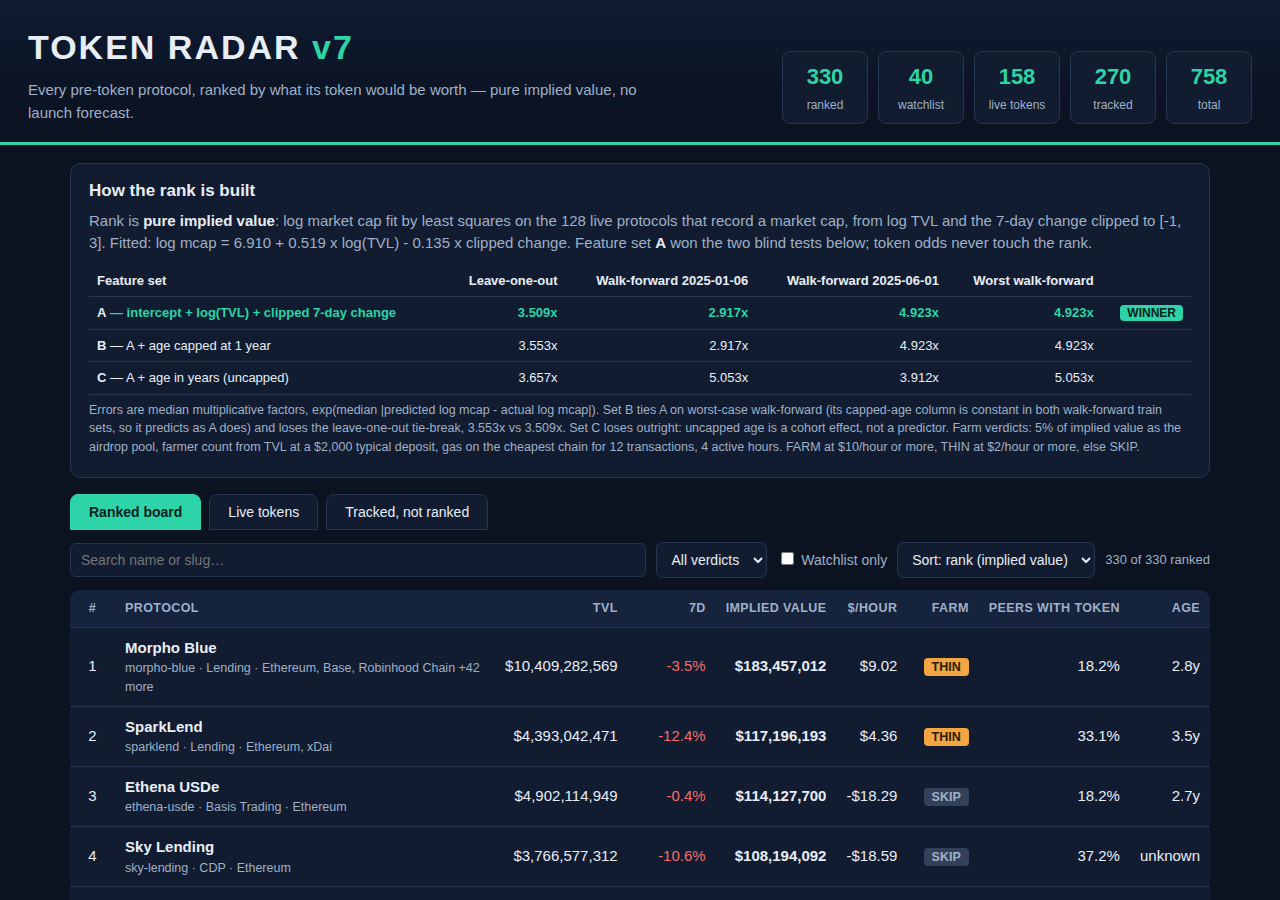
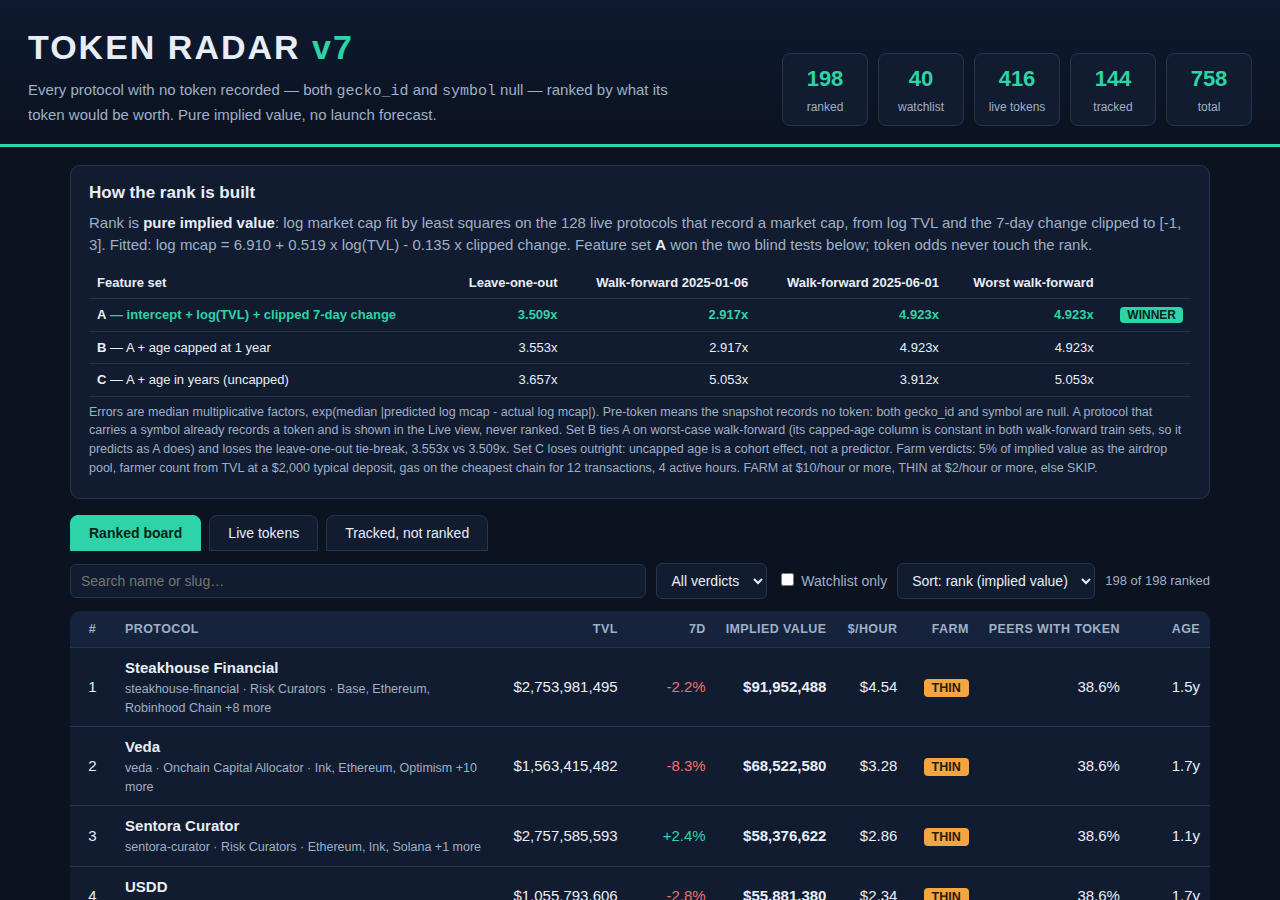
Fix pre-token definition: both gecko_id and symbol must be null
A symbol on its own already records a token (RULES.txt: the two fields
are 'both null when it records no token'), so the 258 symbol-bearing
protocols — morpho-blue/MORPHO, ethena-usde/ENA, maple/SYRUP and the
rest — move out of the ranked board into the Live view. The board now
ranks only both-null protocols: 198 rows (was 330), watchlist 40/40,
rank 1..198 non-increasing in implied value. Accounting is 198 ranked
+ 416 live + 144 tracked = 758. The implied-value model is unchanged
(set A, fit on the same 128 live protocols with a market cap); token
odds stay information-only, with the peer share now counting a token
by CoinGecko id or symbol. Dashboard text, README and all three
screenshots regenerated to match the new board.

diff --git a/lib/model.ts b/lib/model.ts
@@ -7,6 +7,14 @@
 // share of same-age peers that already record a token, labelled as exactly
 // that, never as a launch forecast.
 //
+// "Records no token" means BOTH gecko_id and symbol are null (RULES.txt:
+// the two fields are "both null when it records no token"). A protocol that
+// carries a symbol already records a token — morpho-blue (MORPHO),
+// ethena-usde (ENA), maple (SYRUP) and the like are LIVE, never launch
+// candidates, even though the snapshot gives them no CoinGecko id and no
+// market cap. The ranked board therefore holds only both-null protocols;
+// every symbol-bearing protocol sits in the Live view instead.
+//
 // Feature selection was earned, not assumed. Three candidate feature sets
 // were scored on two blind tests each (leave-one-out and walk-forward at two
 // cutoffs, listed_at before 2025-01-06 vs after and before 2025-06-01 vs
@@ -373,12 +381,19 @@ export function impliedValue(p: SnapshotProtocol, beta: number[], asOf: string, 
   return { implied: Math.max(1, Math.round(Math.exp(predicted))), predicted };
 }
 
-/** Whether a protocol records no token: no CoinGecko id in the snapshot.
- *  (258 protocols carry a symbol but no CoinGecko id and no market cap; the
- *  design counts them pre-token, as the snapshot records no token for them
- *  that any market prices. A protocol with a CoinGecko id is LIVE.) */
+/** Whether a protocol records a token: the snapshot carries a CoinGecko id
+ *  OR a symbol for it. RULES.txt is explicit: gecko_id and symbol are "both
+ *  null when it records no token", so a symbol on its own already records
+ *  a token — 258 protocols in this snapshot carry a symbol with no
+ *  CoinGecko id and no market cap, and they are NOT pre-token. */
+export function hasToken(p: SnapshotProtocol): boolean {
+  return p.gecko_id !== null || p.symbol !== null;
+}
+
+/** Whether a protocol records no token: BOTH gecko_id and symbol are null.
+ *  Only such a protocol can be a launch candidate. */
 export function isPreToken(p: SnapshotProtocol): boolean {
-  return p.gecko_id === null;
+  return !hasToken(p);
 }
 
 /** DefiLlama's version-marker rule: a name ending in a release is a pool of another protocol. */
@@ -425,14 +440,15 @@ export function oddsBand(p: SnapshotProtocol, asOf: string): string {
   return '3+ years';
 }
 
-/** For each age band, the share of protocols in it that already record a token. */
+/** For each age band, the share of protocols in it that already record a token
+ *  (a CoinGecko id or a symbol — see hasToken). */
 export function peerTokenShares(snapshot: Snapshot): Map<string, number> {
   const bands = new Map<string, { total: number; withToken: number }>();
   for (const p of snapshot.protocols) {
     const band = oddsBand(p, snapshot.as_of);
     const entry = bands.get(band) ?? { total: 0, withToken: 0 };
     entry.total++;
-    if (p.gecko_id !== null) entry.withToken++;
+    if (hasToken(p)) entry.withToken++;
     bands.set(band, entry);
   }
   const shares = new Map<string, number>();
@@ -643,7 +659,10 @@ export function buildBoard(snapshot: Snapshot, selection: Selection): BoardRow[]
   }));
 }
 
-/** The live-token protocols, by market cap, for the dashboard's Live token view. */
+/** The live-token protocols — every protocol that records a token, by
+ *  CoinGecko id or by symbol — by market cap, for the dashboard's Live
+ *  token view. Symbol-only protocols record no market cap, so they sort
+ *  after the ones that do; the market's own value is shown, never modelled. */
 export function liveRows(snapshot: Snapshot): LiveRow[] {
   return snapshot.protocols
     .filter((p) => !isPreToken(p))

diff --git a/dashboard/index.html b/dashboard/index.html
@@ -10,7 +10,7 @@
 <header class="masthead">
   <div>
     <h1>TOKEN RADAR <span class="v7">v7</span></h1>
-    <p class="tagline">Every pre-token protocol, ranked by what its token would be worth — pure implied value, no launch forecast.</p>
+    <p class="tagline">Every protocol with no token recorded — both <code>gecko_id</code> and <code>symbol</code> null — ranked by what its token would be worth. Pure implied value, no launch forecast.</p>
   </div>
   <div class="counts" id="counts"></div>
 </header>
@@ -65,7 +65,7 @@
 </main>
 
 <footer>
-  <p>Implied value is this radar's own claim from the snapshot's figures — never make.fun's, never DefiLlama's. “Records no token” means the snapshot carries no token for the protocol, not that none exists. Peer token share is the share of same-age protocols that already record a token: information only, it never changes a rank. Farm figures assume a 5% airdrop pool, a $2,000 standard position and 4 active hours; a smaller deposit earns proportionally less.</p>
+  <p>Implied value is this radar's own claim from the snapshot's figures — never make.fun's, never DefiLlama's. “Records no token” means the snapshot records no token for the protocol: both <code>gecko_id</code> and <code>symbol</code> are null. A protocol that carries a symbol (MORPHO, ENA, SYRUP…) already records a token and sits in the Live view, never on the ranked board. Peer token share is the share of same-age protocols that already record a token: information only, it never changes a rank. Farm figures assume a 5% airdrop pool, a $2,000 standard position and 4 active hours; a smaller deposit earns proportionally less.</p>
   <p class="fine">Data: DefiLlama public API, fetched once by the house. Snapshot date <span id="asof"></span>. Model: least squares of log market cap on log TVL and clipped 7-day change, fit on the 128 live protocols that record a market cap. Built offline; no network.</p>
 </footer>
 

diff --git a/dashboard/app.js b/dashboard/app.js
@@ -54,6 +54,7 @@
   });
   $('method-fine').textContent =
     'Errors are median multiplicative factors, exp(median |predicted log mcap - actual log mcap|). ' +
+    'Pre-token means the snapshot records no token: both gecko_id and symbol are null. A protocol that carries a symbol already records a token and is shown in the Live view, never ranked. ' +
     'Set B ties A on worst-case walk-forward (its capped-age column is constant in both walk-forward train sets, so it predicts as A does) and loses the leave-one-out tie-break, 3.553x vs 3.509x. ' +
     'Set C loses outright: uncapped age is a cohort effect, not a predictor. ' +
     'Farm verdicts: 5% of implied value as the airdrop pool, farmer count from TVL at a $2,000 typical deposit, gas on the cheapest chain for 12 transactions, 4 active hours. ' +
@@ -146,7 +147,7 @@
     } else if (tab === 'live') {
       var q = '';
       body.innerHTML = R.live.map(liveHtml).join('');
-      shown.textContent = R.live.length + ' protocols that already record a token (market cap shown, never modelled)';
+      shown.textContent = R.live.length + ' protocols that already record a token — by CoinGecko id or by symbol (market cap shown where recorded, never modelled)';
       empty.hidden = true;
     } else {
       body.innerHTML = R.tracked.map(trackedHtml).join('');

diff --git a/README.md b/README.md
@@ -20,6 +20,8 @@ log mcap = 6.910 + 0.519 x log(TVL) - 0.135 x clipped 7-day change
 
 The 7-day change is the snapshot's per-cent figure clipped to [-1, 3]. The implied value of a pre-token protocol is exp(predicted log mcap), rounded to whole dollars.
 
+Pre-token means the snapshot records no token: both `gecko_id` and `symbol` are null (RULES.txt). A protocol that carries a symbol already records a token, even with no CoinGecko id and no market cap — so morpho-blue (MORPHO), ethena-usde (ENA), maple (SYRUP) and 255 more sit in the Live view, not on the ranked board. The fit itself is unchanged: it still uses the 128 live protocols that record a market cap above zero.
+
 Feature selection was earned on two blind tests per candidate (error = median multiplicative factor):
 
 | Feature set | Leave-one-out | Walk-forward 2025-01-06 | Walk-forward 2025-06-01 | Worst WF |
@@ -32,7 +34,7 @@ B ties A on worst-case walk-forward (its capped-age column is constant in both w
 
 ## Coverage
 
-All 758 protocols are accounted for: **330 ranked** launch candidates, **158 live** (already record a token, shown with the market's own market cap, never modelled), **270 tracked** pre-token protocols that are not launch candidates (versioned names, wrapped/staked/bridged products, exchanges) with the reason each is excluded. All 40 watchlist slugs are ranked.
+All 758 protocols are accounted for: **198 ranked** launch candidates (pre-token: both `gecko_id` and `symbol` null), **416 live** (already record a token — 158 by CoinGecko id plus 258 that carry a symbol with no CoinGecko id, e.g. morpho-blue/MORPHO, ethena-usde/ENA, maple/SYRUP — shown with the market's own market cap where recorded, never modelled), **144 tracked** pre-token protocols that are not launch candidates (versioned names, wrapped/staked/bridged products, exchanges) with the reason each is excluded. All 40 watchlist slugs are ranked.
 
 ## Farm verdicts
 
